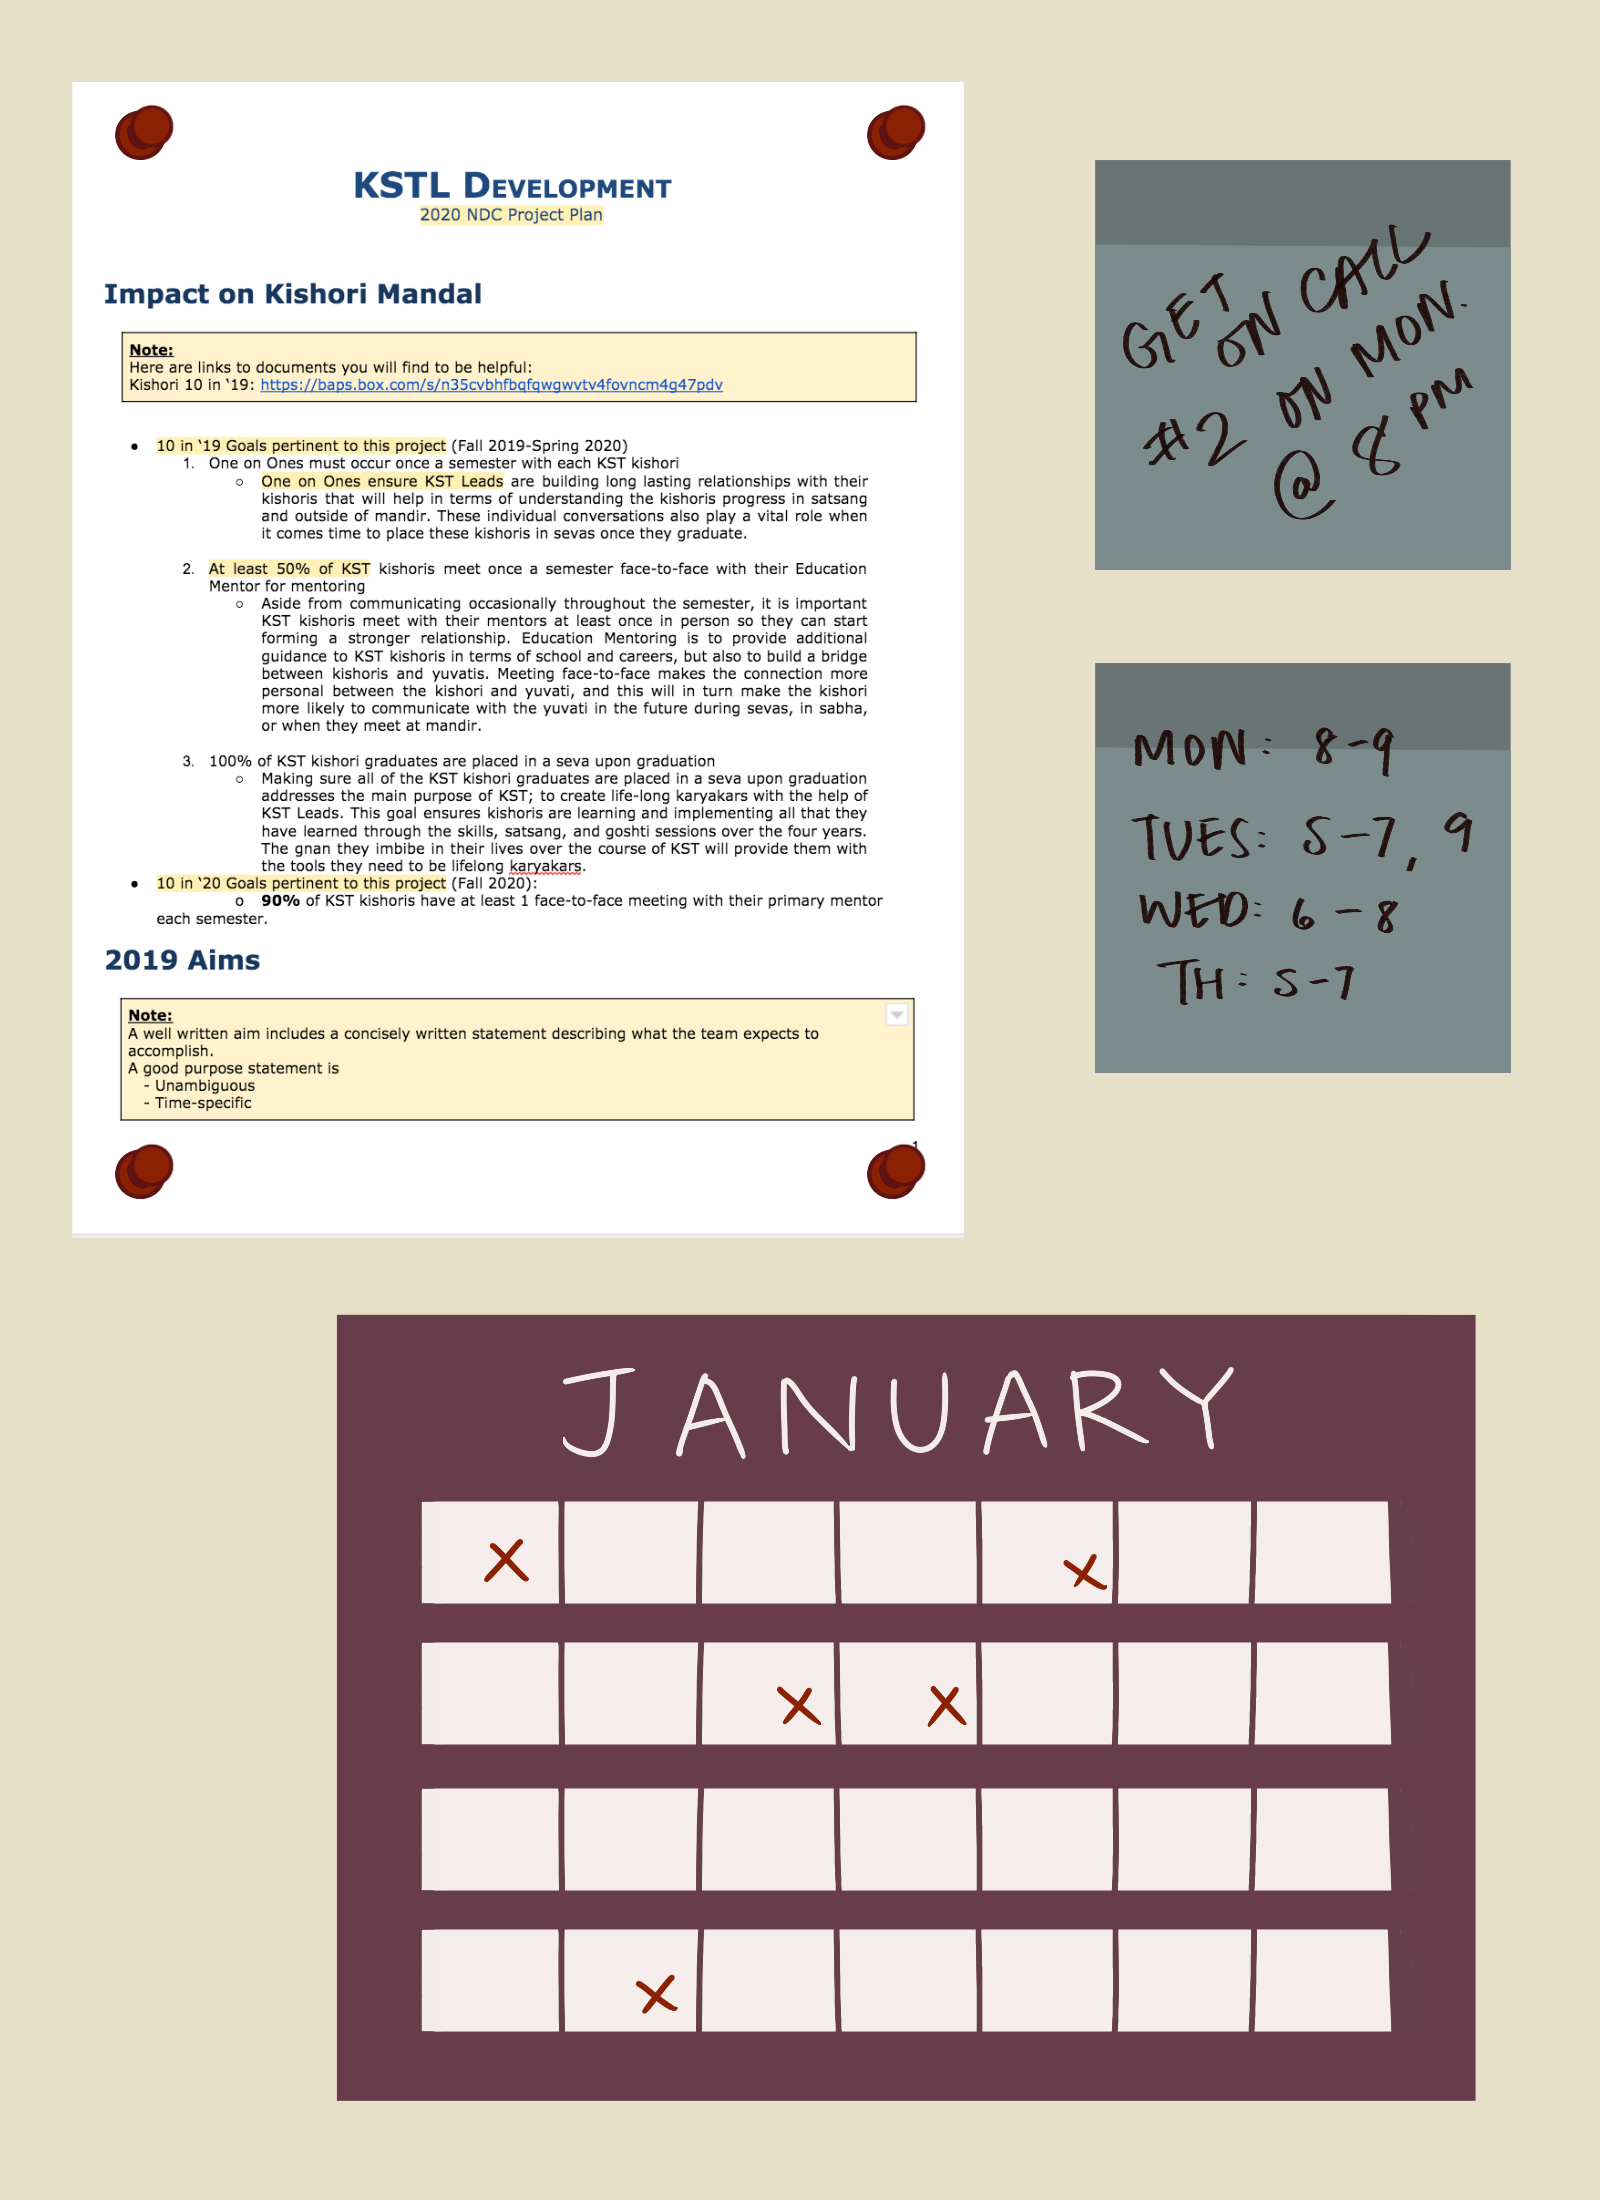
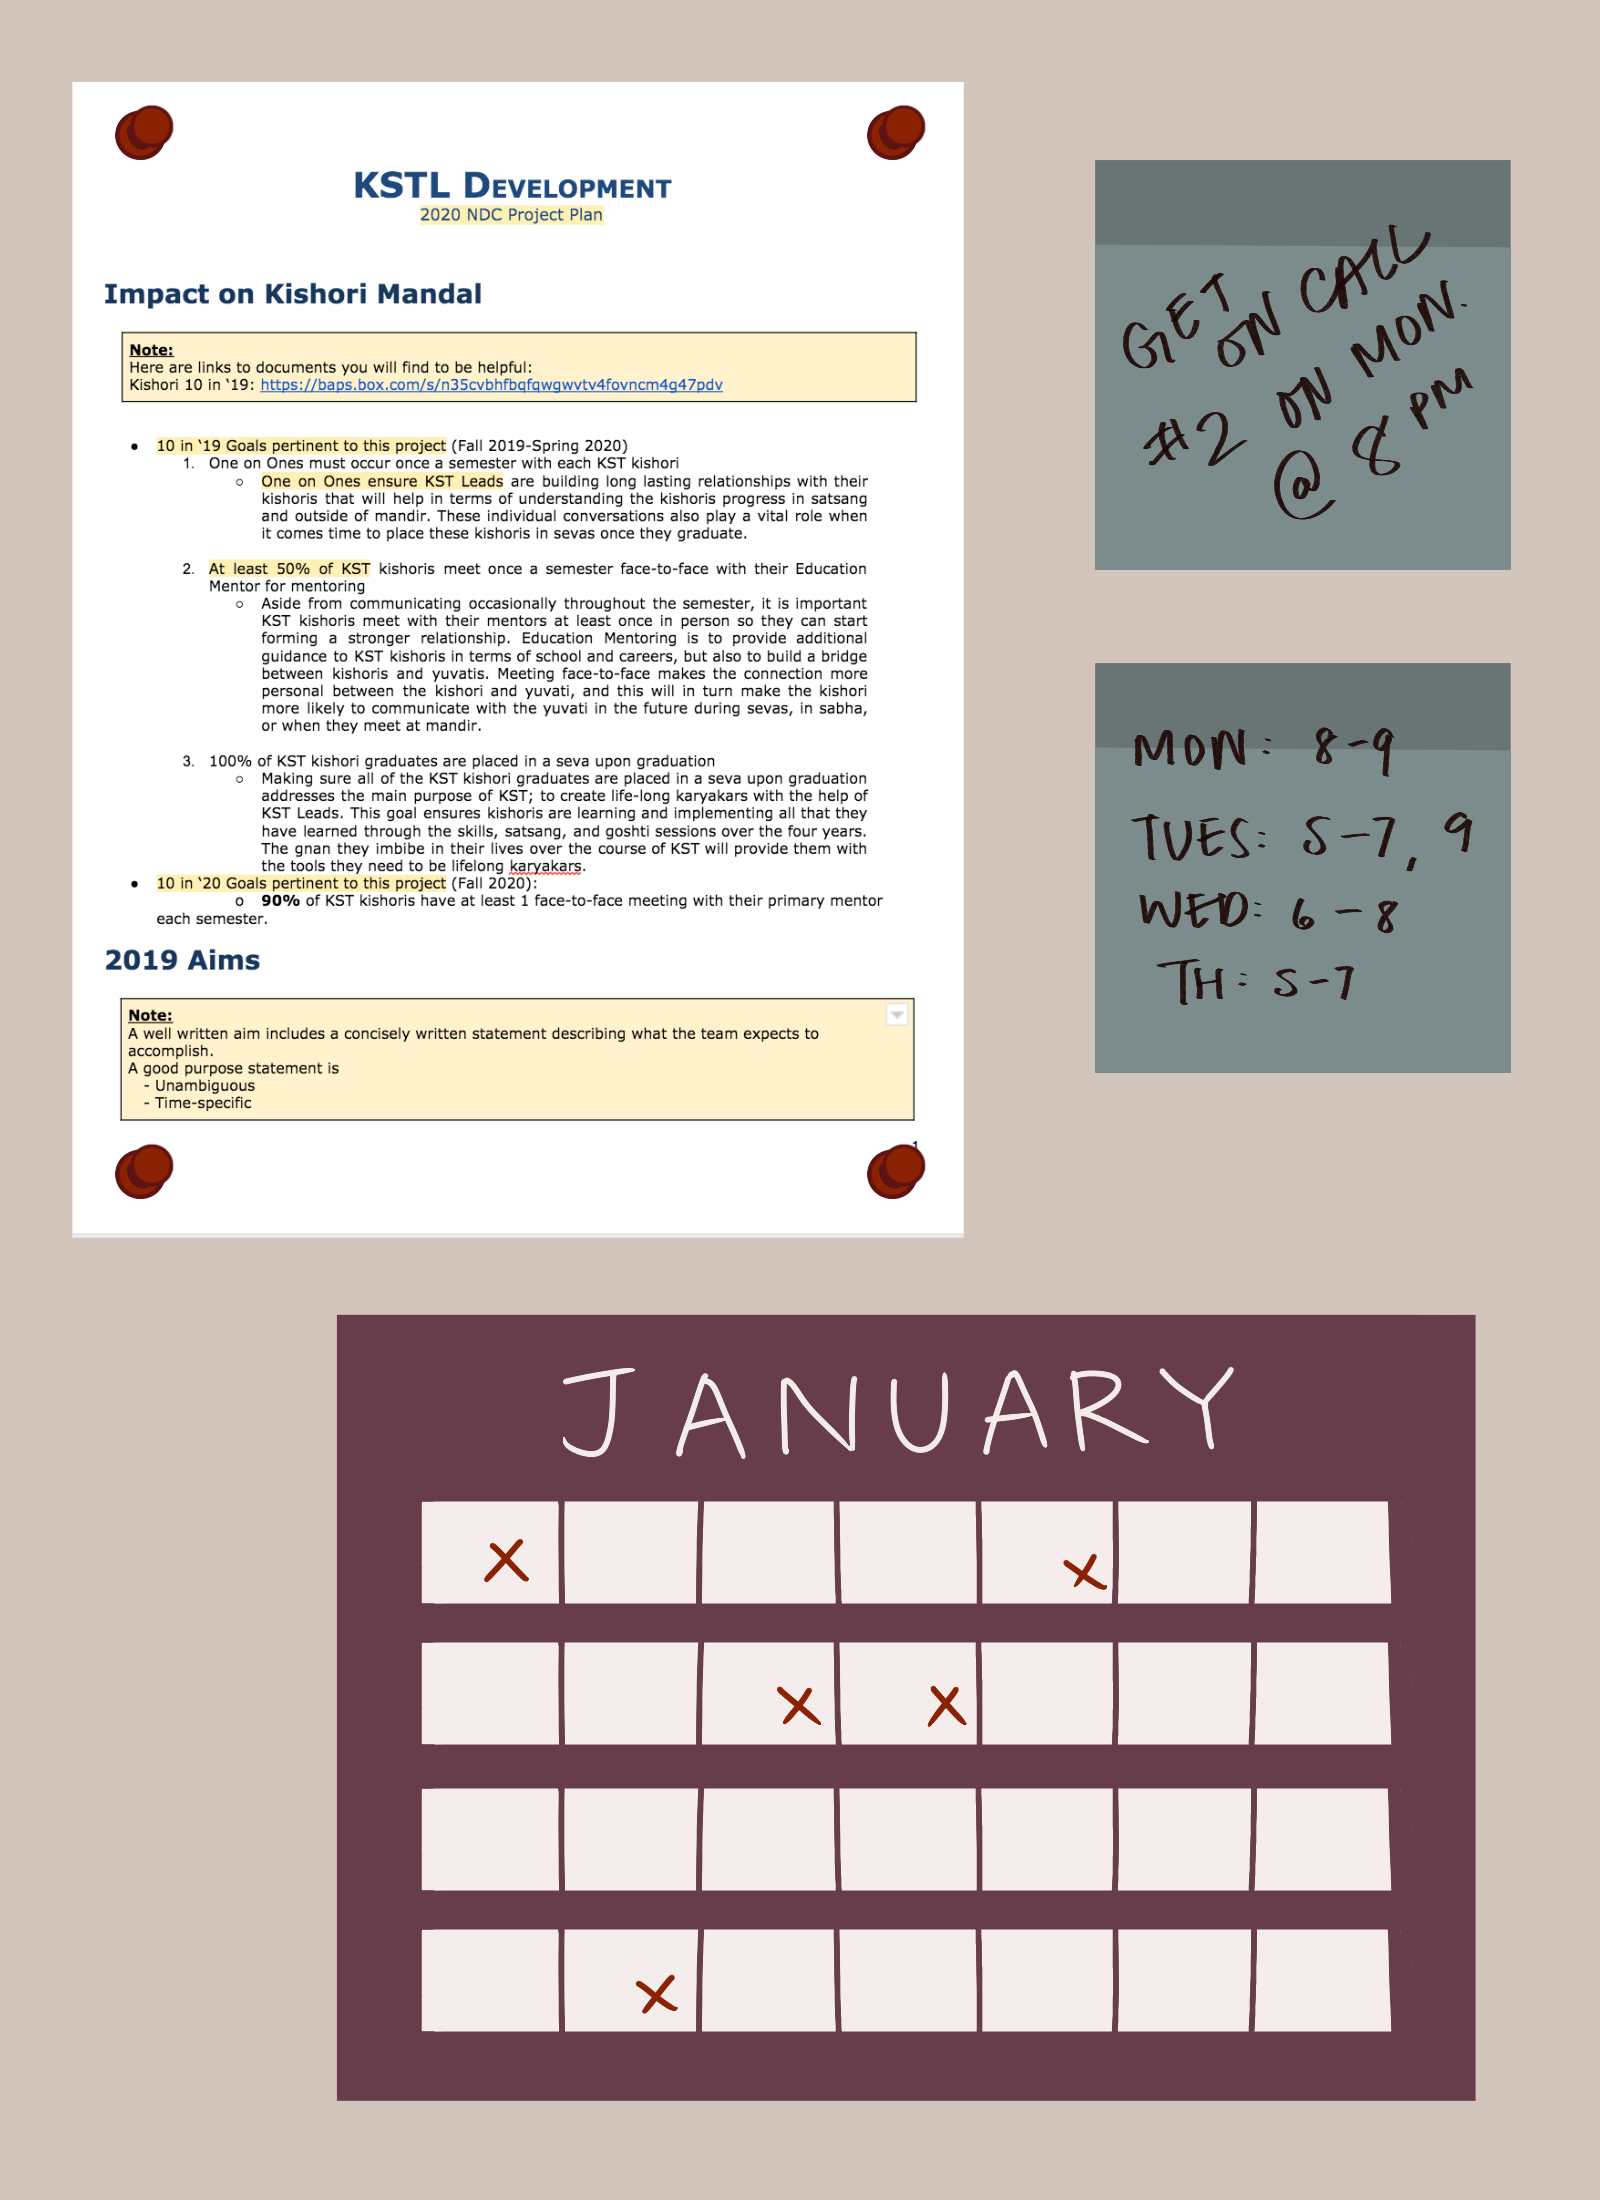
color palette and order
picked a new background color and updated the order of the grid and deleted unused files

diff --git a/grid2.css b/grid2.css
@@ -1,16 +1,10 @@
 @import url('https://fonts.googleapis.com/css2?family=Bebas+Neue&display=swap');
 
 body {
-  background-color: #E6E0C8;
+  background-color: #d2c5bc;
   margin: 0; 
 }
 
-h1 {
-  background-color: #830E26;
-  color: #830E26;
-  font-size: 2px;
-  margin-top: 16px;
-}
 
 h2 {
   color: black;
@@ -22,7 +16,7 @@ h2 {
 
 h3 {
   background-color: black;
-  color: #E6E0C8;
+  color: #d2c5bc;
   font-size: 24px;
   text-align: center;
   margin-bottom: 0;
@@ -33,7 +27,7 @@ h3 {
   display: grid;
   grid-template-columns: auto auto auto auto;
   grid-gap: 20px;
-  background-color: #E6E0C8;
+  background-color: #d2c5bc;
   padding-left: 5vw;
   padding-right: 5vw;
 }
